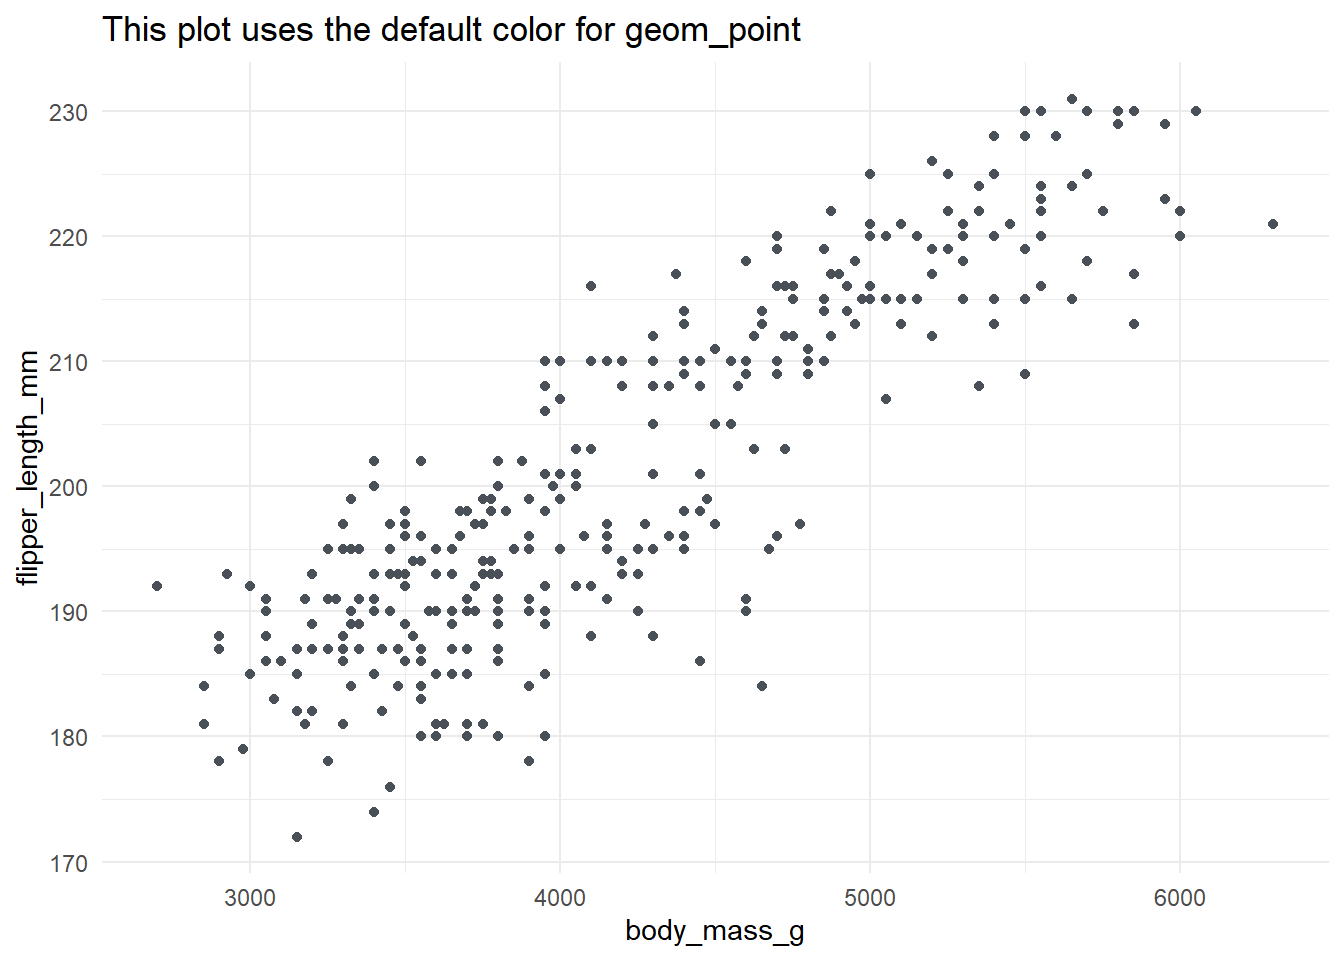
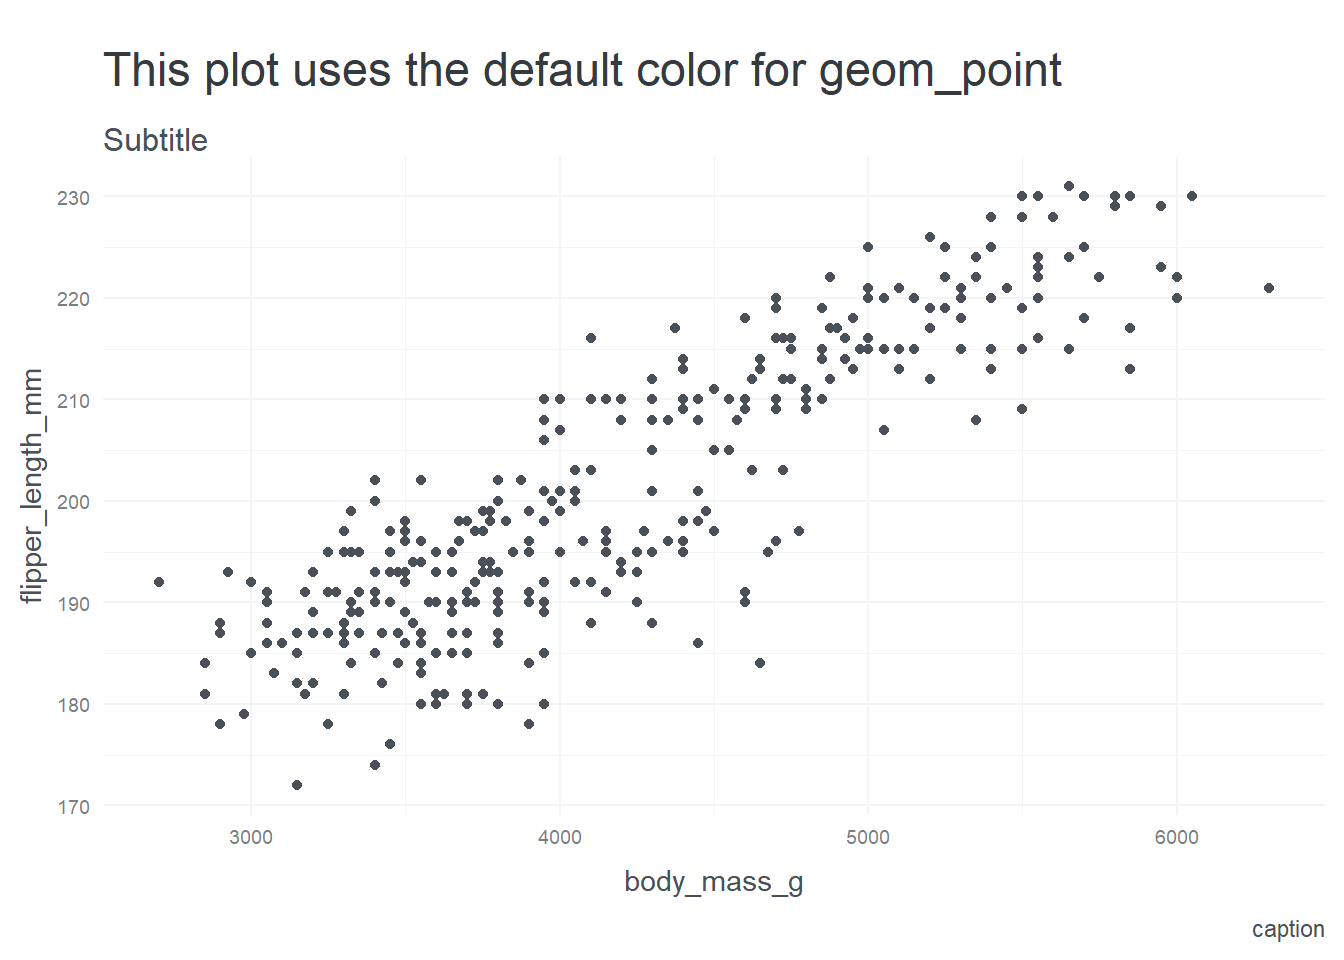
cara thompson theme

diff --git a/posts/2024-04-21-example-of-post-create-by-the-newpost-function/index.html.md b/posts/2024-04-21-example-of-post-create-by-the-newpost-function/index.html.md
@@ -11,6 +11,7 @@ lang: fr
 
 
 
+
 :::{.callout-tip}
 ## Pourquoi est-ce qu'on est ici?  
 :::
@@ -19,6 +20,8 @@ lang: fr
 ::: {.cell}
 
 :::
+
+
 
 
 First,  I cross reference @fig-charts for fun.  
@@ -94,7 +97,6 @@ mes charts
 
 
 
-
 # toutes les largeurs   
 (source: https://quarto.org/docs/authoring/article-layout.html#page-column)
 on peut insérer du stock avec le paramètre `#| column : xxx` ou bien avec les trucs funky de quarto:
@@ -155,8 +157,8 @@ leaflet() %>%
 
 
 ```{=html}
-<div class="leaflet html-widget html-fill-item" id="htmlwidget-1728e2f734f928d591ba" style="width:100%;height:464px;"></div>
-<script type="application/json" data-for="htmlwidget-1728e2f734f928d591ba">{"x":{"options":{"crs":{"crsClass":"L.CRS.EPSG3857","code":null,"proj4def":null,"projectedBounds":null,"options":{}}},"calls":[{"method":"addTiles","args":["https://{s}.tile.openstreetmap.org/{z}/{x}/{y}.png",null,null,{"minZoom":0,"maxZoom":18,"tileSize":256,"subdomains":"abc","errorTileUrl":"","tms":false,"noWrap":false,"zoomOffset":0,"zoomReverse":false,"opacity":1,"zIndex":1,"detectRetina":false,"attribution":"&copy; <a href=\"https://openstreetmap.org/copyright/\">OpenStreetMap<\/a>,  <a href=\"https://opendatacommons.org/licenses/odbl/\">ODbL<\/a>"}]},{"method":"addMarkers","args":[-36.852,174.768,null,null,null,{"interactive":true,"draggable":false,"keyboard":true,"title":"","alt":"","zIndexOffset":0,"opacity":1,"riseOnHover":false,"riseOffset":250},"The birthplace of R",null,null,null,null,{"interactive":false,"permanent":false,"direction":"auto","opacity":1,"offset":[0,0],"textsize":"10px","textOnly":false,"className":"","sticky":true},null]}],"limits":{"lat":[-36.852,-36.852],"lng":[174.768,174.768]}},"evals":[],"jsHooks":[]}</script>
+<div class="leaflet html-widget html-fill-item" id="htmlwidget-5f0829d05b97789bb945" style="width:100%;height:464px;"></div>
+<script type="application/json" data-for="htmlwidget-5f0829d05b97789bb945">{"x":{"options":{"crs":{"crsClass":"L.CRS.EPSG3857","code":null,"proj4def":null,"projectedBounds":null,"options":{}}},"calls":[{"method":"addTiles","args":["https://{s}.tile.openstreetmap.org/{z}/{x}/{y}.png",null,null,{"minZoom":0,"maxZoom":18,"tileSize":256,"subdomains":"abc","errorTileUrl":"","tms":false,"noWrap":false,"zoomOffset":0,"zoomReverse":false,"opacity":1,"zIndex":1,"detectRetina":false,"attribution":"&copy; <a href=\"https://openstreetmap.org/copyright/\">OpenStreetMap<\/a>,  <a href=\"https://opendatacommons.org/licenses/odbl/\">ODbL<\/a>"}]},{"method":"addMarkers","args":[-36.852,174.768,null,null,null,{"interactive":true,"draggable":false,"keyboard":true,"title":"","alt":"","zIndexOffset":0,"opacity":1,"riseOnHover":false,"riseOffset":250},"The birthplace of R",null,null,null,null,{"interactive":false,"permanent":false,"direction":"auto","opacity":1,"offset":[0,0],"textsize":"10px","textOnly":false,"className":"","sticky":true},null]}],"limits":{"lat":[-36.852,-36.852],"lng":[174.768,174.768]}},"evals":[],"jsHooks":[]}</script>
 ```
 
 
@@ -246,11 +248,13 @@ screen content...
 :::
 
 
+
+
 <!-- :::{.callout-note collapse="true"} -->
 ## Reproductibilité  {.unnumbered .unlisted}     
 <!-- unlisted doesnt appear in table of contents -->
 
-Ce document a été généré le 21 avril 2024 à 02:10:27 .    par le programme index.rmarkdown.  Note: les fichiers `.qmd` voient leur extension remplacée par rmarkdown ici.  
+Ce document a été généré le 21 avril 2024 à 02:44:58 .    par le programme index.rmarkdown.  Note: les fichiers `.qmd` voient leur extension remplacée par rmarkdown ici.  
 
 
 ::: {.cell}
@@ -259,7 +263,7 @@ Ce document a été généré le 21 avril 2024 à 02:10:27 .    par le programme
 ```
 Local:    main C:/Users/simon/OneDrive/Documents/snippets_quarto
 Remote:   main @ origin (git@github.com:SimonCoulombe/snippets_quarto.git)
-Head:     [1f37957] 2024-04-20: hey ça marche ahah
+Head:     [1f12a57] 2024-04-21: cool template
 ```
 
 
